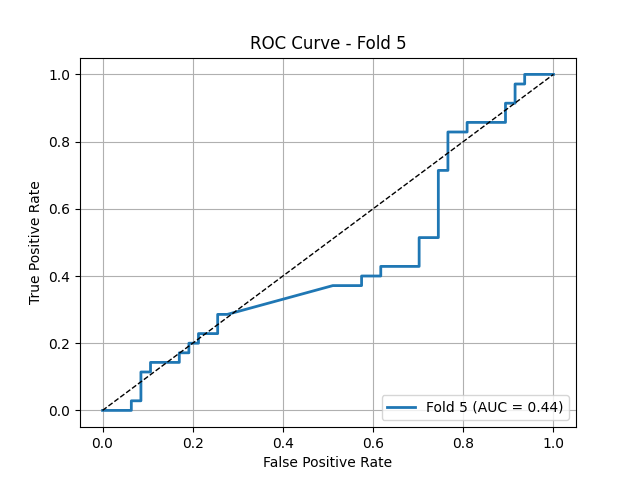
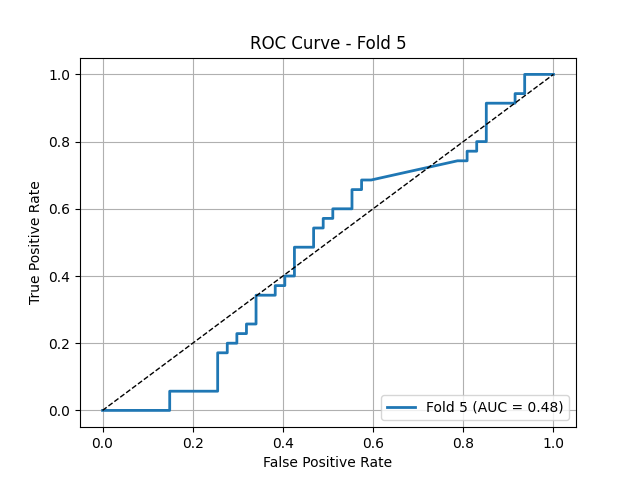
random brightness disabled

diff --git a/dataset_washu2.py b/dataset_washu2.py
@@ -81,11 +81,11 @@ train_transform = A.Compose([
     A.RandomRotate90(p=0.5),
 
 	A.ShiftScaleRotate(shift_limit=0.05, scale_limit=0.05, rotate_limit=10, border_mode=0, value=0, p=0.5), 
-    #A.ElasticTransform(p=0.5),
+    A.ElasticTransform(p=0.5),
     A.GridDistortion(p=0.2),
 
 	#A.GaussNoise(var_limit=(0.2, 0.44), p=1),
-    A.RandomBrightnessContrast(brightness_limit=0.01, contrast_limit=0.01, p=0.5),
+    #A.RandomBrightnessContrast(brightness_limit=0.01, contrast_limit=0.01, p=0.5),
     #A.CLAHE(clip_limit=.5, tile_grid_size=(8, 8), p=0.5),
     A.Downscale(scale_range=(0.7,0.95), p=0.5),
 	
